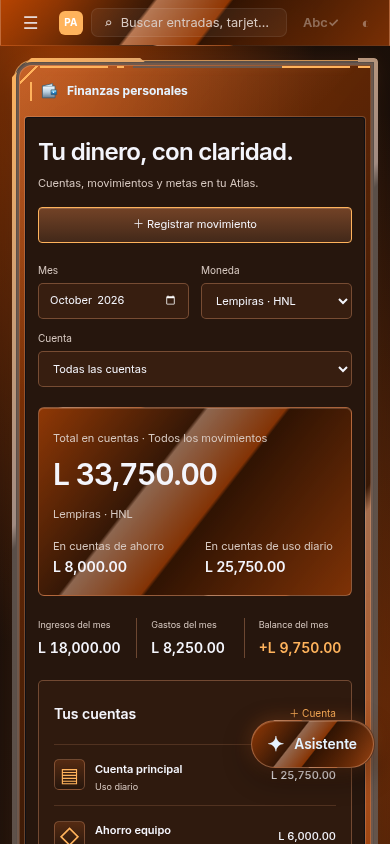
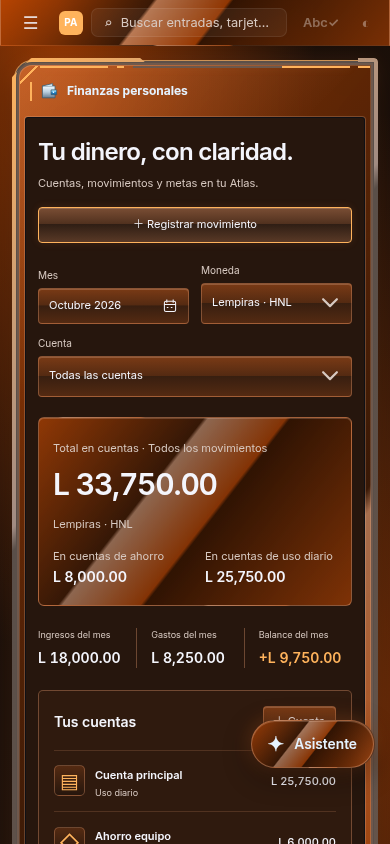
Fix Centinela dialog overflow and align finance controls with Atlas

diff --git a/knowledge_base/static/atlas-date-inputs.js b/knowledge_base/static/atlas-date-inputs.js
@@ -1,0 +1,54 @@
+/* Theme-controlled calendars with native form values and validation. */
+(() => {
+  'use strict';
+  let closeCalendar = null;
+  const pad = n => String(n).padStart(2,'0');
+  const today = () => {const d=new Date();return `${d.getFullYear()}-${pad(d.getMonth()+1)}-${pad(d.getDate())}`;};
+  const months = Array.from({length:12},(_,i)=>new Intl.DateTimeFormat('es',{month:'long'}).format(new Date(2024,i,1)));
+  function mount(root) {
+    root.querySelectorAll('input:is([type=month],[type=date]):not([data-atlas-date])').forEach(input=>{
+      input.dataset.atlasDate='true';
+      const label=[...input.labels].map(n=>[...n.childNodes].filter(c=>c.nodeType===3).map(c=>c.textContent.trim()).join(' ')).join(' ')||'Fecha';
+      const wrapper=document.createElement('span');wrapper.className='atlas-date';input.before(wrapper);wrapper.append(input);input.classList.add('atlas-date-native');input.tabIndex=-1;input.setAttribute('aria-hidden','true');
+      const trigger=document.createElement('button');trigger.type='button';trigger.className='atlas-date-trigger';trigger.setAttribute('aria-haspopup','dialog');trigger.setAttribute('aria-expanded','false');wrapper.append(trigger);
+      let signature='';
+      const sync=()=>{const next=JSON.stringify([input.value,input.disabled]);if(next===signature)return;signature=next;const [y,m,d]=input.value.split('-').map(Number);const text=y&&m?(input.type==='month'?`${months[m-1]} ${y}`:`${d} de ${months[m-1]} de ${y}`):'Elegir fecha';trigger.replaceChildren();const value=document.createElement('span');value.textContent=text;const icon=document.createElementNS('http://www.w3.org/2000/svg','svg');icon.setAttribute('viewBox','0 0 20 20');icon.setAttribute('aria-hidden','true');icon.innerHTML='<rect x="3" y="4" width="14" height="13" rx="2"/><path d="M6 2v4m8-4v4M3 8h14m-11 4h2m3 0h2"/>';trigger.append(value,icon);trigger.setAttribute('aria-label',`${label}: ${text}`);trigger.disabled=input.disabled;};
+      input._atlasDateSync=sync;sync();if(input.required)trigger.setAttribute('aria-required','true');if(document.activeElement===input)trigger.focus({preventScroll:true});input.addEventListener('change',sync);input.addEventListener('input',sync);input.addEventListener('invalid',e=>{e.preventDefault();trigger.focus();});
+      input.labels.forEach(n=>n.addEventListener('click',e=>{if(!e.target.closest('button,input,a')){e.preventDefault();trigger.focus();}}));
+      function open(){
+        if(input.disabled)return;window.closeAtlasSelectPopup?.();closeCalendar?.();
+        const isMonth=input.type==='month',initial=(input.value||today()).split('-').map(Number);let year=initial[0],month=initial[1]-1;
+        const popup=document.createElement('div');popup.className='atlas-calendar';popup.id='atlas-calendar-'+crypto.randomUUID();popup.setAttribute('role','dialog');popup.setAttribute('aria-label',isMonth?'Elegir mes':'Elegir fecha');
+        (input.closest('dialog[open]')||document.body).append(popup);if(typeof popup.showPopover==='function'){popup.popover='manual';popup.showPopover();}
+        trigger.setAttribute('aria-expanded','true');trigger.setAttribute('aria-controls',popup.id);
+        const position=()=>{const r=trigger.getBoundingClientRect(),width=Math.min(300,innerWidth-16),height=popup.getBoundingClientRect().height,below=innerHeight-r.bottom-8,up=below<height+6&&r.top>below;popup.style.width=width+'px';popup.style.left=Math.max(8,Math.min(r.left,innerWidth-width-8))+'px';popup.style.top=up?Math.max(8,r.top-height-6)+'px':Math.min(r.bottom+6,Math.max(8,innerHeight-height-8))+'px';popup.style.maxHeight=Math.max(80,innerHeight-16)+'px';};
+        const close=(focus=false)=>{popup.remove();trigger.setAttribute('aria-expanded','false');trigger.removeAttribute('aria-controls');document.removeEventListener('pointerdown',outside,true);document.removeEventListener('scroll',scroll,true);window.removeEventListener('resize',position);observer.disconnect();if(closeCalendar===close)closeCalendar=null;if(focus&&trigger.isConnected)trigger.focus();};
+        const choose=value=>{input.value=value;input.dispatchEvent(new Event('input',{bubbles:true}));input.dispatchEvent(new Event('change',{bubbles:true}));close(true);};
+        const button=(text,action,aria)=>{const b=document.createElement('button');b.type='button';b.textContent=text;if(aria)b.setAttribute('aria-label',aria);b.addEventListener('click',action);return b;};
+        function render(focusIndex){
+          popup.replaceChildren();const head=document.createElement('header');head.className='atlas-calendar-head';
+          const change=delta=>{if(isMonth)year+=delta;else{month+=delta;if(month<0){month=11;year--;}if(month>11){month=0;year++;}}year=Math.max(1,Math.min(9999,year));render();};
+          const heading=document.createElement('strong');heading.textContent=isMonth?String(year):`${months[month]} ${year}`;
+          head.append(button('‹',()=>change(-1),isMonth?'Año anterior':'Mes anterior'),heading,button('›',()=>change(1),isMonth?'Año siguiente':'Mes siguiente'));
+          const grid=document.createElement('div');grid.className='atlas-calendar-grid '+(isMonth?'calendar-months':'calendar-days');
+          if(!isMonth){['L','M','X','J','V','S','D'].forEach(day=>{const s=document.createElement('span');s.className='calendar-weekday';s.textContent=day;grid.append(s);});const first=new Date(0);first.setFullYear(year,month,1);const offset=(first.getDay()+6)%7;for(let i=0;i<offset;i++){const s=document.createElement('span');s.setAttribute('aria-hidden','true');grid.append(s);}}
+          const last=new Date(0);last.setFullYear(year,month+1,0);const count=isMonth?12:last.getDate();
+          for(let i=0;i<count;i++){const value=isMonth?`${String(year).padStart(4,'0')}-${pad(i+1)}`:`${String(year).padStart(4,'0')}-${pad(month+1)}-${pad(i+1)}`;const b=button(isMonth?months[i].slice(0,3):String(i+1),()=>choose(value),isMonth?`${months[i]} ${year}`:`${i+1} de ${months[month]} de ${year}`);b.dataset.calendarValue=value;b.setAttribute('aria-pressed',String(value===input.value));b.disabled=Boolean((input.min&&value<input.min)||(input.max&&value>input.max));grid.append(b);}
+          const current=button(isMonth?'Este mes':'Hoy',()=>choose(isMonth?today().slice(0,7):today()));current.className='calendar-today';
+          popup.append(head,grid,current);position();const options=[...grid.querySelectorAll('button:not(:disabled)')];(options[focusIndex]||options.find(b=>b.getAttribute('aria-pressed')==='true')||options[0])?.focus({preventScroll:true});
+        }
+        const outside=e=>{if(!wrapper.contains(e.target)&&!popup.contains(e.target))close();};
+        const scroll=e=>{if(!popup.contains(e.target))position();};
+        const observer=new MutationObserver(()=>{if(!input.isConnected||input.disabled||!trigger.getClientRects().length)close();});observer.observe(document.body,{childList:true,subtree:true,attributes:true,attributeFilter:['open','hidden','disabled','class']});
+        popup.addEventListener('keydown',e=>{if(e.key==='Escape'){e.preventDefault();e.stopPropagation();close(true);}else if(['ArrowLeft','ArrowRight','ArrowUp','ArrowDown','Home','End'].includes(e.key)&&e.target.dataset.calendarValue){e.preventDefault();const options=[...popup.querySelectorAll('[data-calendar-value]:not(:disabled)')],index=options.indexOf(e.target),delta=e.key==='ArrowLeft'?-1:e.key==='ArrowRight'?1:e.key==='ArrowUp'?-(isMonth?3:7):(isMonth?3:7);const next=e.key==='Home'?0:e.key==='End'?options.length-1:Math.max(0,Math.min(options.length-1,index+delta));options[next]?.focus();}else if(e.key==='Tab'){close();trigger.focus();}});
+        closeCalendar=close;render();document.addEventListener('pointerdown',outside,true);document.addEventListener('scroll',scroll,true);window.addEventListener('resize',position);
+      }
+      trigger.addEventListener('click',()=>{if(trigger.getAttribute('aria-expanded')==='true')closeCalendar?.(true);else open();});trigger.addEventListener('keydown',e=>{if(['ArrowDown','ArrowUp'].includes(e.key)){e.preventDefault();open();}});
+    });
+  }
+  window.mountAtlasDates=mount;
+  window.closeAtlasDatePopup=()=>closeCalendar?.();
+  let scheduled=false;function refresh(){scheduled=false;document.querySelectorAll('.finance-filters,.transaction-dialog').forEach(mount);document.querySelectorAll('[data-atlas-date]').forEach(input=>input._atlasDateSync?.());}
+  function start(){refresh();new MutationObserver(()=>{if(!scheduled){scheduled=true;requestAnimationFrame(refresh);}}).observe(document.body,{childList:true,subtree:true,attributes:true,attributeFilter:['open','hidden','disabled','value']});}
+  if(document.readyState==='loading')document.addEventListener('DOMContentLoaded',start,{once:true});else start();
+})();

diff --git a/knowledge_base/static/atlas-selects.js b/knowledge_base/static/atlas-selects.js
@@ -17,14 +17,17 @@
       const label=Array.from(select.labels||[]).map(n=>Array.from(n.childNodes).filter(c=>c.nodeType===3).map(c=>c.textContent.trim()).join(' ')).join(' ')||(wrapper.previousElementSibling?.tagName==='LABEL'?wrapper.previousElementSibling.textContent.trim():'')||select.getAttribute('aria-label')||'Elegir opción';
       let signature='';
       const sync=()=>{const next=JSON.stringify([select.selectedOptions[0]?.textContent,select.matches(':disabled'),select.getAttribute('aria-describedby'),select.required]);if(signature===next)return;signature=next;trigger.innerHTML=`<span>${esc(select.selectedOptions[0]?.textContent||'Elegir opción')}</span><span class="atlas-select-arrow" aria-hidden="true"><svg viewBox="0 0 16 16" width="14" height="14"><path d="m3 6 5 5 5-5" fill="none" stroke="currentColor" stroke-width="1.6" stroke-linecap="round" stroke-linejoin="round"/></svg></span>`;trigger.setAttribute('aria-label',label+': '+(select.selectedOptions[0]?.textContent||''));trigger.disabled=select.matches(':disabled'); if(select.getAttribute('aria-describedby'))trigger.setAttribute('aria-describedby',select.getAttribute('aria-describedby')); if(select.required)trigger.setAttribute('aria-required','true');};
-      wrapper.append(trigger);sync();select.addEventListener('change',sync);select.addEventListener('input',sync);select._atlasSync=sync;select.addEventListener('invalid',event=>{event.preventDefault();trigger.focus();});select.labels?.forEach(label=>label.addEventListener('click',event=>{if(!event.target.closest('button,input,textarea,a')){event.preventDefault();trigger.focus();}}));
+      wrapper.append(trigger);sync();if(document.activeElement===select)trigger.focus({preventScroll:true});select.addEventListener('change',sync);select.addEventListener('input',sync);select._atlasSync=sync;select.addEventListener('invalid',event=>{event.preventDefault();trigger.focus();});select.labels?.forEach(label=>label.addEventListener('click',event=>{if(!event.target.closest('button,input,textarea,a')){event.preventDefault();trigger.focus();}}));
       function open(initial){
         sync();if(trigger.disabled||!select.options.length)return;
         closeSelectPopup?.();
         const popup=document.createElement('div');popup.className='atlas-select-popup';popup.id='atlas-options-'+uid();popup.setAttribute('role','listbox');popup.setAttribute('aria-label',label);popup.tabIndex=-1;
         const items=Array.from(select.options),selected=Math.max(0,select.selectedIndex);const enabled=items.map((o,i)=>!o.disabled&&!o.hidden&&!o.parentElement.disabled?i:-1).filter(i=>i>=0);if(!enabled.length)return;let active=enabled.includes(initial??selected)?(initial??selected):enabled[0],typed='',lastType=0;
         popup.innerHTML=items.map((o,index)=>`<div class="atlas-select-option" id="${popup.id}-${index}" role="option" aria-disabled="${!enabled.includes(index)}" aria-selected="${index===selected}" data-index="${index}"><span class="atlas-select-check" aria-hidden="true">${index===selected?'✓':''}</span><span><span class="atlas-select-label">${esc(o.textContent)}</span>${select.dataset.config==='mode'?`<span class="atlas-select-description">${esc(selectDescriptions[o.value]||'')}</span>`:''}</span></div>`).join('');
-        (select.closest('dialog[open]')||document.body).append(popup);trigger.setAttribute('aria-expanded','true');trigger.setAttribute('aria-controls',popup.id);
+        (select.closest('dialog[open]')||document.body).append(popup);
+        // A viewport-positioned popup must escape the glass frame's containing block.
+        if(typeof popup.showPopover==='function'){popup.popover='manual';popup.showPopover();}
+        trigger.setAttribute('aria-expanded','true');trigger.setAttribute('aria-controls',popup.id);
         const position=()=>{const r=trigger.getBoundingClientRect(),gap=6,padding=8,below=innerHeight-r.bottom-padding,above=r.top-padding,up=below<Math.min(popup.scrollHeight,260)&&above>below;popup.style.width=Math.min(r.width,innerWidth-padding*2)+'px';popup.style.left=Math.max(padding,Math.min(r.left,innerWidth-r.width-padding))+'px';popup.style.maxHeight=Math.max(80,Math.min(360,up?above-gap:below-gap))+'px';popup.style.top=up?'auto':r.bottom+gap+'px';popup.style.bottom=up?innerHeight-r.top+gap+'px':'auto';};
         const highlight=()=>{popup.querySelectorAll('[role=option]').forEach((n,index)=>n.classList.toggle('atlas-option-active',index===active));popup.setAttribute('aria-activedescendant',popup.id+'-'+active);const row=popup.children[active];if(row){if(row.offsetTop<popup.scrollTop)popup.scrollTop=row.offsetTop;else if(row.offsetTop+row.offsetHeight>popup.scrollTop+popup.clientHeight)popup.scrollTop=row.offsetTop+row.offsetHeight-popup.clientHeight;}};
         const close=(focus=false)=>{popup.remove();trigger.setAttribute('aria-expanded','false');trigger.removeAttribute('aria-controls');document.removeEventListener('pointerdown',outside,true);window.removeEventListener('resize',position);document.removeEventListener('scroll',scroll,true);observer.disconnect();if(closeSelectPopup===close)closeSelectPopup=null;if(focus&&trigger.isConnected)trigger.focus();};
@@ -39,7 +42,7 @@
           if(['ArrowDown','ArrowUp','Home','End'].includes(e.key)){e.preventDefault();active=e.key==='Home'?enabled[0]:e.key==='End'?enabled.at(-1):enabled[(enabled.indexOf(active)+(e.key==='ArrowDown'?1:-1)+enabled.length)%enabled.length];highlight();}
           else if(e.key==='Enter'||e.key===' '){e.preventDefault();choose(active);}
           else if(e.key==='Escape'){e.preventDefault();e.stopPropagation();close(true);}
-          else if(e.key==='Tab'){e.preventDefault();const scope=trigger.closest('.modal,.lib-modal,.assistant-confirm-dialog,.atlas-spelling-review')||document;const fields=[...scope.querySelectorAll('button,input,textarea,select,a[href],[tabindex]')].filter(n=>n.tabIndex>=0&&!n.matches(':disabled')&&n.getClientRects().length&&!n.closest('.hidden,[hidden]'));const index=fields.indexOf(trigger);close();fields[(index+(e.shiftKey?-1:1)+fields.length)%fields.length]?.focus();}
+          else if(e.key==='Tab'){e.preventDefault();const scope=trigger.closest('dialog[open],.modal,.lib-modal,.assistant-confirm-dialog,.atlas-spelling-review')||document;const fields=[...scope.querySelectorAll('button,input,textarea,select,a[href],[tabindex]')].filter(n=>n.tabIndex>=0&&!n.matches(':disabled')&&n.getClientRects().length&&!n.closest('.hidden,[hidden]'));const index=fields.indexOf(trigger);close();fields[(index+(e.shiftKey?-1:1)+fields.length)%fields.length]?.focus();}
           else if(e.key.length===1&&!e.ctrlKey&&!e.metaKey){const now=Date.now();typed=now-lastType>700?e.key:typed+e.key;lastType=now;const found=items.findIndex((o,i)=>enabled.includes(i)&&o.textContent.toLocaleLowerCase().startsWith(typed.toLocaleLowerCase()));if(found>=0){active=found;highlight();}}
         };
         document.addEventListener('pointerdown',outside,true);window.addEventListener('resize',position);document.addEventListener('scroll',scroll,true);
@@ -52,7 +55,7 @@
   window.mountAtlasSelects=mountSelects;
   window.closeAtlasSelectPopup=()=>closeSelectPopup?.();
   let scheduled=false;
-  function refresh(){scheduled=false;document.querySelectorAll('.modal,.lib-modal,.assistant-confirm-dialog,.atlas-spelling-review').forEach(root=>mountSelects(root));document.querySelectorAll('select[data-atlas-mounted]').forEach(select=>select._atlasSync?.());document.querySelectorAll('.modal-header h2,.modal-header > span,.modal-footer > button,.ir-mode-tab').forEach(node=>{if(/^[✨📋]/u.test(node.textContent.trim())&&!node.querySelector('svg'))setAtlasSystemLabel(node,node.textContent.trim());});}
+  function refresh(){scheduled=false;document.querySelectorAll('.modal,.lib-modal,.assistant-confirm-dialog,.atlas-spelling-review,.ag-dialog,.transaction-dialog,.finance-filters').forEach(root=>mountSelects(root));document.querySelectorAll('select[data-atlas-mounted]').forEach(select=>select._atlasSync?.());document.querySelectorAll('.modal-header h2,.modal-header > span,.modal-footer > button,.ir-mode-tab').forEach(node=>{if(/^[✨📋]/u.test(node.textContent.trim())&&!node.querySelector('svg'))setAtlasSystemLabel(node,node.textContent.trim());});}
   const observer=new MutationObserver(()=>{if(!scheduled){scheduled=true;requestAnimationFrame(refresh);}});
   function start(){refresh();observer.observe(document.body,{childList:true,subtree:true,attributes:true,attributeFilter:['class','disabled','selected','hidden','open']});document.addEventListener('reset',()=>requestAnimationFrame(refresh));}
   if(document.readyState==='loading')document.addEventListener('DOMContentLoaded',start,{once:true});else start();

diff --git a/knowledge_base/static/finance/finance.js b/knowledge_base/static/finance/finance.js
@@ -97,7 +97,8 @@
     if(mode==='account'){$('#dialog-title').textContent='Añadir cuenta';$('#form-fields').innerHTML='<label class="full-field">Nombre<input name="name" maxlength="60" required placeholder="Ej.: Cuenta principal"></label><label>Tipo<select name="kind"><option value="spending">Uso diario</option><option value="savings">Ahorro</option></select></label><label>Moneda<select name="currency"><option value="HNL">HNL</option><option value="USD">USD</option><option value="EUR">EUR</option></select></label>'+amountField('opening','Saldo inicial','0');form.elements.currency.value=$('#currency').value;form.elements.opening.value='0';}
     else if(mode==='budget'){$('#dialog-title').textContent='Definir presupuesto del mes';$('#form-fields').innerHTML=categoryField+amountField('limit','Límite · '+$('#currency').value);}
     else{$('#dialog-title').textContent='Registrar movimiento';$('#form-fields').innerHTML='<label>Tipo<select name="type"><option value="expense">Gasto</option><option value="income">Ingreso</option><option value="transfer">Transferencia</option></select></label>'+amountField('amount','Importe · '+$('#currency').value)+'<label class="full-field">Descripción<input name="description" maxlength="120" required></label><label>Cuenta<select name="account_id">'+accountOptions+'</select></label><label>Fecha<input type="date" name="date" required></label>'+categoryField+'<label class="full-field" id="destination-field" hidden>Cuenta de destino<select name="destination_id">'+accountOptions+'</select></label>';form.elements.date.value=isoToday();form.elements.category.value='Otros';if($('#account-filter').value)form.elements.account_id.value=$('#account-filter').value;form.elements.type.addEventListener('change',()=>{const transfer=form.elements.type.value==='transfer';$('#destination-field').hidden=!transfer;form.elements.category.disabled=transfer;});}
-    dialog.showModal();form.querySelector('input,select')?.focus();
+    window.mountAtlasSelects?.(form);window.mountAtlasDates?.(form);
+    dialog.showModal();form.querySelector('input:not(.atlas-select-native):not(.atlas-date-native),.atlas-select-trigger,.atlas-date-trigger')?.focus();
   }
   form.addEventListener('submit',async event=>{
     event.preventDefault();if(busy)return;let endpoint,data;
@@ -118,6 +119,6 @@
   $('#currency').addEventListener('change',()=>{category='';type='';$('#account-filter').innerHTML='<option value="">Todas las cuentas</option>'+visibleAccounts().map(a=>`<option value="${a.id}">${esc(a.name)}</option>`).join('');render();});
   $('#clear-filters').addEventListener('click',()=>{category='';type='';$('#account-filter').value='';render();});
   document.querySelectorAll('[data-detail]').forEach(b=>b.addEventListener('click',()=>showDetail(b.dataset.detail)));
-  window.addEventListener('message',event=>{if(event.origin===location.origin&&event.source===window.parent&&event.data?.type==='atlas-finance-refresh'){load();window.AtlasGoal.mount($('#finance-goal'));}});
+  window.addEventListener('message',event=>{if(event.origin===location.origin&&event.source===window.parent&&event.data?.type==='atlas-finance-refresh'){window.closeAtlasSelectPopup?.();window.closeAtlasDatePopup?.();load();window.AtlasGoal.mount($('#finance-goal'));}});
   $('#add-movement').disabled=true;load();
 })();

diff --git a/knowledge_base/static/atlas-date-inputs.css b/knowledge_base/static/atlas-date-inputs.css
@@ -1,0 +1,17 @@
+.atlas-date{display:block;min-width:0;width:100%;position:relative}
+input.atlas-date-native{position:absolute!important;width:1px!important;height:1px!important;min-height:0!important;opacity:0;padding:0!important;border:0!important;pointer-events:none;clip-path:inset(50%)}
+.atlas-date-trigger{display:flex;align-items:center;justify-content:space-between;gap:10px;width:100%;min-height:36px;padding:7px 10px;font:11px/1.4 var(--font-ui);color:var(--text);text-align:left;background:var(--aero-button,var(--bg-elevated));border:1px solid var(--border);border-radius:4px;box-shadow:inset 0 1px 0 var(--aero-inset)}
+.atlas-date-trigger span{min-width:0;overflow-wrap:anywhere;text-transform:capitalize}
+.atlas-date-trigger svg{width:16px;height:16px;flex:none;fill:none;stroke:currentColor;stroke-width:1.3}
+.atlas-date-trigger:hover:not(:disabled){background:var(--aero-nav-hover,var(--bg-hover));border-color:var(--accent)}
+.atlas-date-trigger[aria-expanded=true]{border-color:var(--accent);outline:1px solid var(--accent);outline-offset:1px}
+.atlas-calendar{position:fixed;z-index:12000;margin:0;inset:auto;box-sizing:border-box;overflow:auto;padding:10px;color:var(--text);background:linear-gradient(135deg,#ffffff0d,transparent 48%),var(--bg-overlay,var(--layer-2));border:1px solid var(--aero-edge,var(--border));border-radius:7px;box-shadow:0 12px 32px #0005,inset 0 1px 0 var(--aero-inset);font:12px var(--font-ui);backdrop-filter:blur(18px);scrollbar-width:thin;scrollbar-color:var(--border) transparent}
+.atlas-calendar-head{display:flex;align-items:center;justify-content:space-between;gap:10px;margin-bottom:9px}
+.atlas-calendar-head strong{text-transform:capitalize;font-size:13px;font-weight:600}
+.atlas-calendar button{border:1px solid transparent;border-radius:4px;color:var(--text);background:transparent;min-height:36px;font:inherit;cursor:pointer}
+.atlas-calendar-head button{width:36px;background:var(--aero-button,var(--bg-elevated));border-color:var(--border);font-size:22px}
+.atlas-calendar-grid{display:grid;gap:3px}.calendar-months{grid-template-columns:repeat(3,minmax(0,1fr))}.calendar-days{grid-template-columns:repeat(7,minmax(0,1fr))}
+.atlas-calendar-grid button{text-transform:capitalize}.atlas-calendar button:hover:not(:disabled){background:var(--aero-nav-hover,var(--bg-hover));border-color:var(--accent)}
+.atlas-calendar-grid button[aria-pressed=true]{background:var(--aero-selection,var(--accent-light));border-color:var(--accent);font-weight:600;box-shadow:inset 0 1px 0 var(--aero-inset)}
+.calendar-weekday{padding:6px;text-align:center;color:var(--text-muted);font-size:10px}.atlas-calendar .calendar-today{margin-top:8px;width:100%;border-top-color:var(--border);color:var(--accent)}
+.atlas-calendar button:focus-visible{outline:2px solid var(--accent);outline-offset:-2px}.atlas-calendar button:disabled{opacity:.4;cursor:default}

diff --git a/knowledge_base/static/atlas-goal.css b/knowledge_base/static/atlas-goal.css
@@ -40,16 +40,18 @@
 .atlas-goal progress::-webkit-progress-value { background:var(--accent); border-radius:3px; }
 .atlas-goal progress::-moz-progress-bar { background:var(--accent); border-radius:3px; }
 .ag-button { cursor:pointer; font:11px/1.5 var(--font-ui); min-height:36px; padding:8px 12px; background:var(--aero-button,var(--bg-elevated)); color:var(--text); border:1px solid var(--aero-frame,var(--border)); border-radius:4px; box-shadow:inset 0 1px 0 var(--ag-inset); }
-.ag-button:hover { border-color:var(--accent); }
+.ag-button:hover { border-color:var(--accent); background:var(--aero-nav-hover,var(--bg-hover)); box-shadow:inset 0 1px 0 var(--ag-inset),0 0 8px var(--accent-light); }
 .ag-empty-note { margin-top:14px; }
 .atlas-goal :is(button,input,select):focus-visible { outline:2px solid var(--accent); outline-offset:3px; }
 .atlas-goal button:disabled { opacity:.6; cursor:wait; }
-.ag-dialog { width:min(460px,calc(100vw - 32px)); max-height:calc(100dvh - 32px); overflow:auto; margin:auto; }
+.ag-dialog { position:fixed; inset:0; width:min(460px,calc(100vw - 32px)); height:fit-content; max-height:calc(100dvh - 32px); overflow:visible; margin:auto; }
+.ag-dialog[open] { display:flex; flex-direction:column; }
+.ag-dialog .ag-chrome { flex-shrink:0; }
 .ag-dialog::backdrop { background:#0007; backdrop-filter:blur(4px); }
-.ag-dialog .ag-body { padding:22px; }
+.ag-dialog .ag-body { padding:22px; min-height:0; overflow-x:hidden; overflow-y:auto; scrollbar-width:thin; scrollbar-color:var(--border) transparent; overscroll-behavior:contain; }
 .ag-dialog label { display:grid; gap:6px; font-size:12px; margin-bottom:16px; }
 .ag-dialog :is(input,select) { width:100%; box-sizing:border-box; min-width:0; min-height:38px; padding:8px 10px; background:var(--aero-field,var(--bg)); color:var(--text); border:1px solid var(--border); border-radius:4px; font:12px var(--font-ui); }
-.ag-form-row { display:grid; grid-template-columns:1fr 1fr; gap:12px; }
+.ag-form-row { display:grid; grid-template-columns:minmax(0,1fr) minmax(0,1fr); gap:12px; }
 .ag-form-actions { display:flex; justify-content:flex-end; gap:10px; margin-top:20px; }
 .ag-dialog .ag-form-status { color:var(--text); margin:12px 0 0; min-height:18px; }
 @keyframes ag-float { 0%,100% {transform:translateY(0)} 50% {transform:translateY(-6px)} }

diff --git a/knowledge_base/static/atlas-goal.js b/knowledge_base/static/atlas-goal.js
@@ -50,6 +50,7 @@
     dialog = document.createElement('dialog'); dialog.className = 'atlas-goal ag-dialog'; dialog.id = 'atlasGoalDialog'; dialog.setAttribute('aria-labelledby','atlasGoalEditorTitle');
     dialog.innerHTML = `<div class="ag-corners" aria-hidden="true"></div><header class="ag-chrome"><strong id="atlasGoalEditorTitle">Mi próxima meta</strong><div class="ag-controls"><button type="button" data-ag-close aria-label="Cerrar meta">×</button></div></header><form class="ag-body"><p>Define tu objetivo y actualiza el total que has reunido.</p><label>Nombre de la meta<input name="title" maxlength="100" required></label><div class="ag-form-row"><label>Moneda<select name="currency"><option value="HNL">Lempiras · HNL</option><option value="USD">Dólares · USD</option><option value="EUR">Euros · EUR</option></select></label><label>Importe objetivo<input name="target" type="number" inputmode="decimal" min="0.01" max="100000000" step="0.01" required></label></div><label>Total reunido<input name="saved" type="number" inputmode="decimal" min="0" max="100000000" step="0.01" required></label><small>No se realizan conversiones de moneda ni movimientos bancarios.</small><p class="ag-form-status" role="status" aria-live="polite"></p><footer class="ag-form-actions"><button type="button" class="ag-button" data-ag-close>Cancelar</button><button type="submit" class="ag-button" data-ag-save>Guardar meta</button></footer></form>`;
     document.body.append(dialog);
+    window.mountAtlasSelects?.(dialog);
     dialog.querySelectorAll('[data-ag-close]').forEach(b => b.addEventListener('click',() => {if(!saving) dialog.close();}));
     dialog.addEventListener('cancel',event => {if(saving) event.preventDefault();});
     const form = dialog.querySelector('form');
@@ -74,6 +75,7 @@
     const form = dialog.querySelector('form');
     form.elements.title.value = goal?.title || 'Mi próximo equipo';
     form.elements.currency.value = goal?.currency || 'HNL';
+    form.elements.currency._atlasSync?.();
     form.elements.target.value = goal ? inputMoney(goal.target_cents) : '';
     form.elements.saved.value = inputMoney(goal?.saved_cents || 0);
     form.querySelector('.ag-form-status').textContent='';dialog.showModal();form.elements.title.focus();

diff --git a/knowledge_base/static/finance/finance.css b/knowledge_base/static/finance/finance.css
@@ -1,4 +1,20 @@
 .finance-live body{background:transparent!important;padding:24px;color:var(--text)}
+.finance-live{scrollbar-width:thin;scrollbar-color:var(--border) transparent}
+.finance-live:has(dialog[open]){overflow:hidden}
+.finance-live .transaction-dialog{position:fixed;inset:0;height:fit-content;overflow:visible;margin:auto}
+.finance-live .transaction-dialog[open]{display:flex;flex-direction:column}
+.finance-live .transaction-dialog .window-chrome{flex-shrink:0}
+.finance-live .transaction-dialog .window-content{min-height:0;overflow-x:hidden;overflow-y:auto;scrollbar-width:thin;scrollbar-color:var(--border) transparent;overscroll-behavior:contain}
+.finance-live .transaction-dialog .form-grid{grid-template-columns:minmax(0,1fr) minmax(0,1fr)}
+.finance-live .transaction-dialog label{min-width:0}
+.finance-live .atlas-select-trigger{min-height:36px;font-size:11px;padding:7px 10px}
+.finance-live .atlas-select-popup{font-size:12px}
+.finance-live .text-btn{min-height:32px;padding:6px 10px;border:1px solid var(--border);border-radius:4px;color:var(--text);background:var(--aero-button);box-shadow:inset 0 1px 0 var(--aero-inset);font-size:11px}
+.finance-live :is(.text-btn,.aero-btn):hover:not(:disabled){background:var(--aero-nav-hover);border-color:var(--accent);box-shadow:inset 0 1px 0 var(--aero-inset),0 0 8px var(--accent-light)}
+.finance-live :is(.text-btn,.aero-btn):disabled{opacity:.5;cursor:default}
+.finance-live .interactive-chart:has(>.chart-empty){min-height:0;margin:14px 0 0}
+.finance-live #savings-chart:has(>.chart-empty)+small{display:none}
+.finance-live .flow-panel:has(.flow-bar:disabled):not(:has(.flow-bar:not(:disabled))) .flow-bar-track{background:transparent;border:1px solid var(--border-light)}
 .finance-workspace{max-width:1560px;margin:auto;grid-template-columns:minmax(0,1fr) 270px}
 .finance-heading h1{font-size:28px;font-weight:600;letter-spacing:-.03em}
 .finance-filters{display:flex;align-items:end;gap:12px;flex-wrap:wrap;margin:0 0 20px}

diff --git a/knowledge_base/static/finance/index.html b/knowledge_base/static/finance/index.html
@@ -1,8 +1,9 @@
 <!doctype html>
 <html lang="es" data-style="aero" data-variant="night" data-theme="dark" data-frame="sentinel" class="finance-live">
 <head><meta charset="utf-8"><meta name="viewport" content="width=device-width,initial-scale=1"><title>Atlas · Finanzas personales</title>
-<link rel="stylesheet" href="../course-themes.css"><link rel="stylesheet" href="../themes.css"><link rel="stylesheet" href="../previews/atlas-window-customization.css"><link rel="stylesheet" href="../atlas-goal.css"><link rel="stylesheet" href="../sentinel-sheen.css"><link rel="stylesheet" href="finance.css">
-<script src="../atlas-goal.js" defer></script><script src="finance.js" defer></script></head>
+<link rel="stylesheet" href="../course-themes.css"><link rel="stylesheet" href="../themes.css"><link rel="stylesheet" href="../previews/atlas-window-customization.css"><link rel="stylesheet" href="../modal-controls.css"><link rel="stylesheet" href="../atlas-goal.css"><link rel="stylesheet" href="../sentinel-sheen.css"><link rel="stylesheet" href="finance.css">
+<link rel="stylesheet" href="../atlas-date-inputs.css">
+<script src="../atlas-selects.js" defer></script><script src="../atlas-date-inputs.js" defer></script><script src="../atlas-goal.js" defer></script><script src="finance.js" defer></script></head>
 <body>
 <main class="preview-workspace finance-workspace">
   <section class="demo-frame main-window"><div class="frame-rivets" aria-hidden="true"></div><header class="window-chrome"><span class="window-title"><svg aria-hidden="true"><use href="../aero-icons.svg#finance"></use></svg><strong>Finanzas personales</strong></span><span class="chrome-engraving" aria-hidden="true">ATLAS</span></header>

diff --git a/knowledge_base/static/modal-controls.css b/knowledge_base/static/modal-controls.css
@@ -7,6 +7,7 @@ select.atlas-select-native {position:absolute !important;width:1px !important;he
 .atlas-select-trigger[aria-expanded=true] .atlas-select-arrow {transform:rotate(180deg)}
 .atlas-select-popup {position:fixed;z-index:12000;box-sizing:border-box;overflow:auto;padding:5px;border:1px solid var(--aero-edge,var(--border));border-radius:7px;background:var(--bg-overlay,var(--layer-2));color:var(--text);box-shadow:0 12px 32px #0005,inset 0 1px 0 #ffffff18;font:14px var(--font-ui,system-ui,sans-serif);scrollbar-width:thin;overscroll-behavior:contain}
 .atlas-select-popup:focus {outline:none}
+.atlas-select-popup[popover] {margin:0;inset:auto}
 [data-style=aero] .atlas-select-popup {background:linear-gradient(135deg,#ffffff0d,transparent 48%),var(--bg-overlay,var(--layer-2));backdrop-filter:blur(18px)}
 .atlas-select-option {display:flex;align-items:center;gap:10px;padding:10px 11px;min-height:38px;box-sizing:border-box;border:1px solid transparent;border-radius:4px;cursor:pointer;line-height:1.35}
 .atlas-select-option+.atlas-select-option {margin-top:2px}

diff --git a/docs/ATLAS_UI_AUDIT.md b/docs/ATLAS_UI_AUDIT.md
@@ -1,0 +1,21 @@
+# Auditoría de integración visual: Finanzas y meta
+
+Revisión del 10 de octubre de 2026, a partir de las capturas del sistema publicado. Se revisaron Inicio, Finanzas, sus cuatro formularios y los selectores compartidos de las ventanas de Atlas.
+
+| Problema observado | Corrección |
+| --- | --- |
+| Barras horizontal y vertical en un formulario que cabía en pantalla | Los adornos sobresalían tres píxeles y generaban desbordamiento. El marco permanece fuera del área desplazable; solo el cuerpo del formulario puede desplazarse verticalmente cuando falta altura. |
+| Menús de Moneda y Cuenta con selección azul del navegador | Reutilización de los selectores de Atlas, incluidos Tipo y Cuenta de destino. Conservan los valores del formulario, validación y eventos. |
+| Mes y Fecha con calendario del navegador y textos en inglés | Calendarios con colores de Atlas y textos en español, operables con ratón y teclado. |
+| Menús flotantes que podían desplazarse respecto al campo dentro del cristal | Los menús usan la capa superior del navegador para evitar que el efecto del marco altere sus coordenadas. |
+| Acciones como «Cuenta» y «Presupuesto» demasiado pequeñas | Botones con superficie Aero, borde, altura y respuesta al foco/hover coherentes con el resto de controles. |
+| Espacios vacíos altos y ahorro con indicaciones repetidas | Estados vacíos compactos, indicación única para empezar y barras de comparación vacías cuando no existen importes. |
+
+La comprobación en Chromium cubre Meta, Cuenta, Movimiento y Presupuesto; selectores en Inicio y Finanzas; selección de mes y fecha; Tab, flechas y Escape; alineación de menús; temas claro, ámbar y esmeralda; y pantallas estrechas o bajas. También se verificaron los selectores compartidos de otros diálogos con cinco temas, opciones deshabilitadas y retirada del menú al cerrar la ventana.
+
+Se repitió el recorrido de Finanzas para comprobar guardado, transferencias, presupuestos y gráficos después de sustituir los controles. Esta revisión cubre las superficies indicadas; no representa una auditoría completa de todos los espacios de Atlas.
+
+Capturas de la implementación:
+
+- [Meta y selector de moneda, sin barras del marco](../design/atlas-finance-goal-polished.png)
+- [Calendario y estados vacíos de Finanzas](../design/atlas-finance-calendar-polished.png)

diff --git a/docs/PERSONAL_FINANCE.md b/docs/PERSONAL_FINANCE.md
@@ -25,6 +25,8 @@ Los datos se guardan bajo el `DATA_DIR` existente: `finance.db` para el módulo 
 
 La vista previa de **Apariencia → Probar nuevos marcos** sigue usando sus datos de muestra en memoria. No modifica tus finanzas ni tu meta reales.
 
+Los filtros y formularios usan selectores y calendarios con la paleta de Atlas. Mes y Fecha se muestran en español. Los marcos no generan barras de desplazamiento; en pantallas bajas solo se desplaza el cuerpo del formulario. Los detalles de la revisión están en [la auditoría visual](ATLAS_UI_AUDIT.md).
+
 ## Verificación
 
 Se verifican importes exactos, validación, transferencias, separación de monedas, eliminación con recálculo, persistencia de la meta y exportación de SQLite en las pruebas del servidor. La comprobación en Chromium cubre formularios, selección de porciones con ratón y teclado, presupuestos, errores con conservación del formulario, sincronización de temas, navegación, recarga y movimiento reducido.
